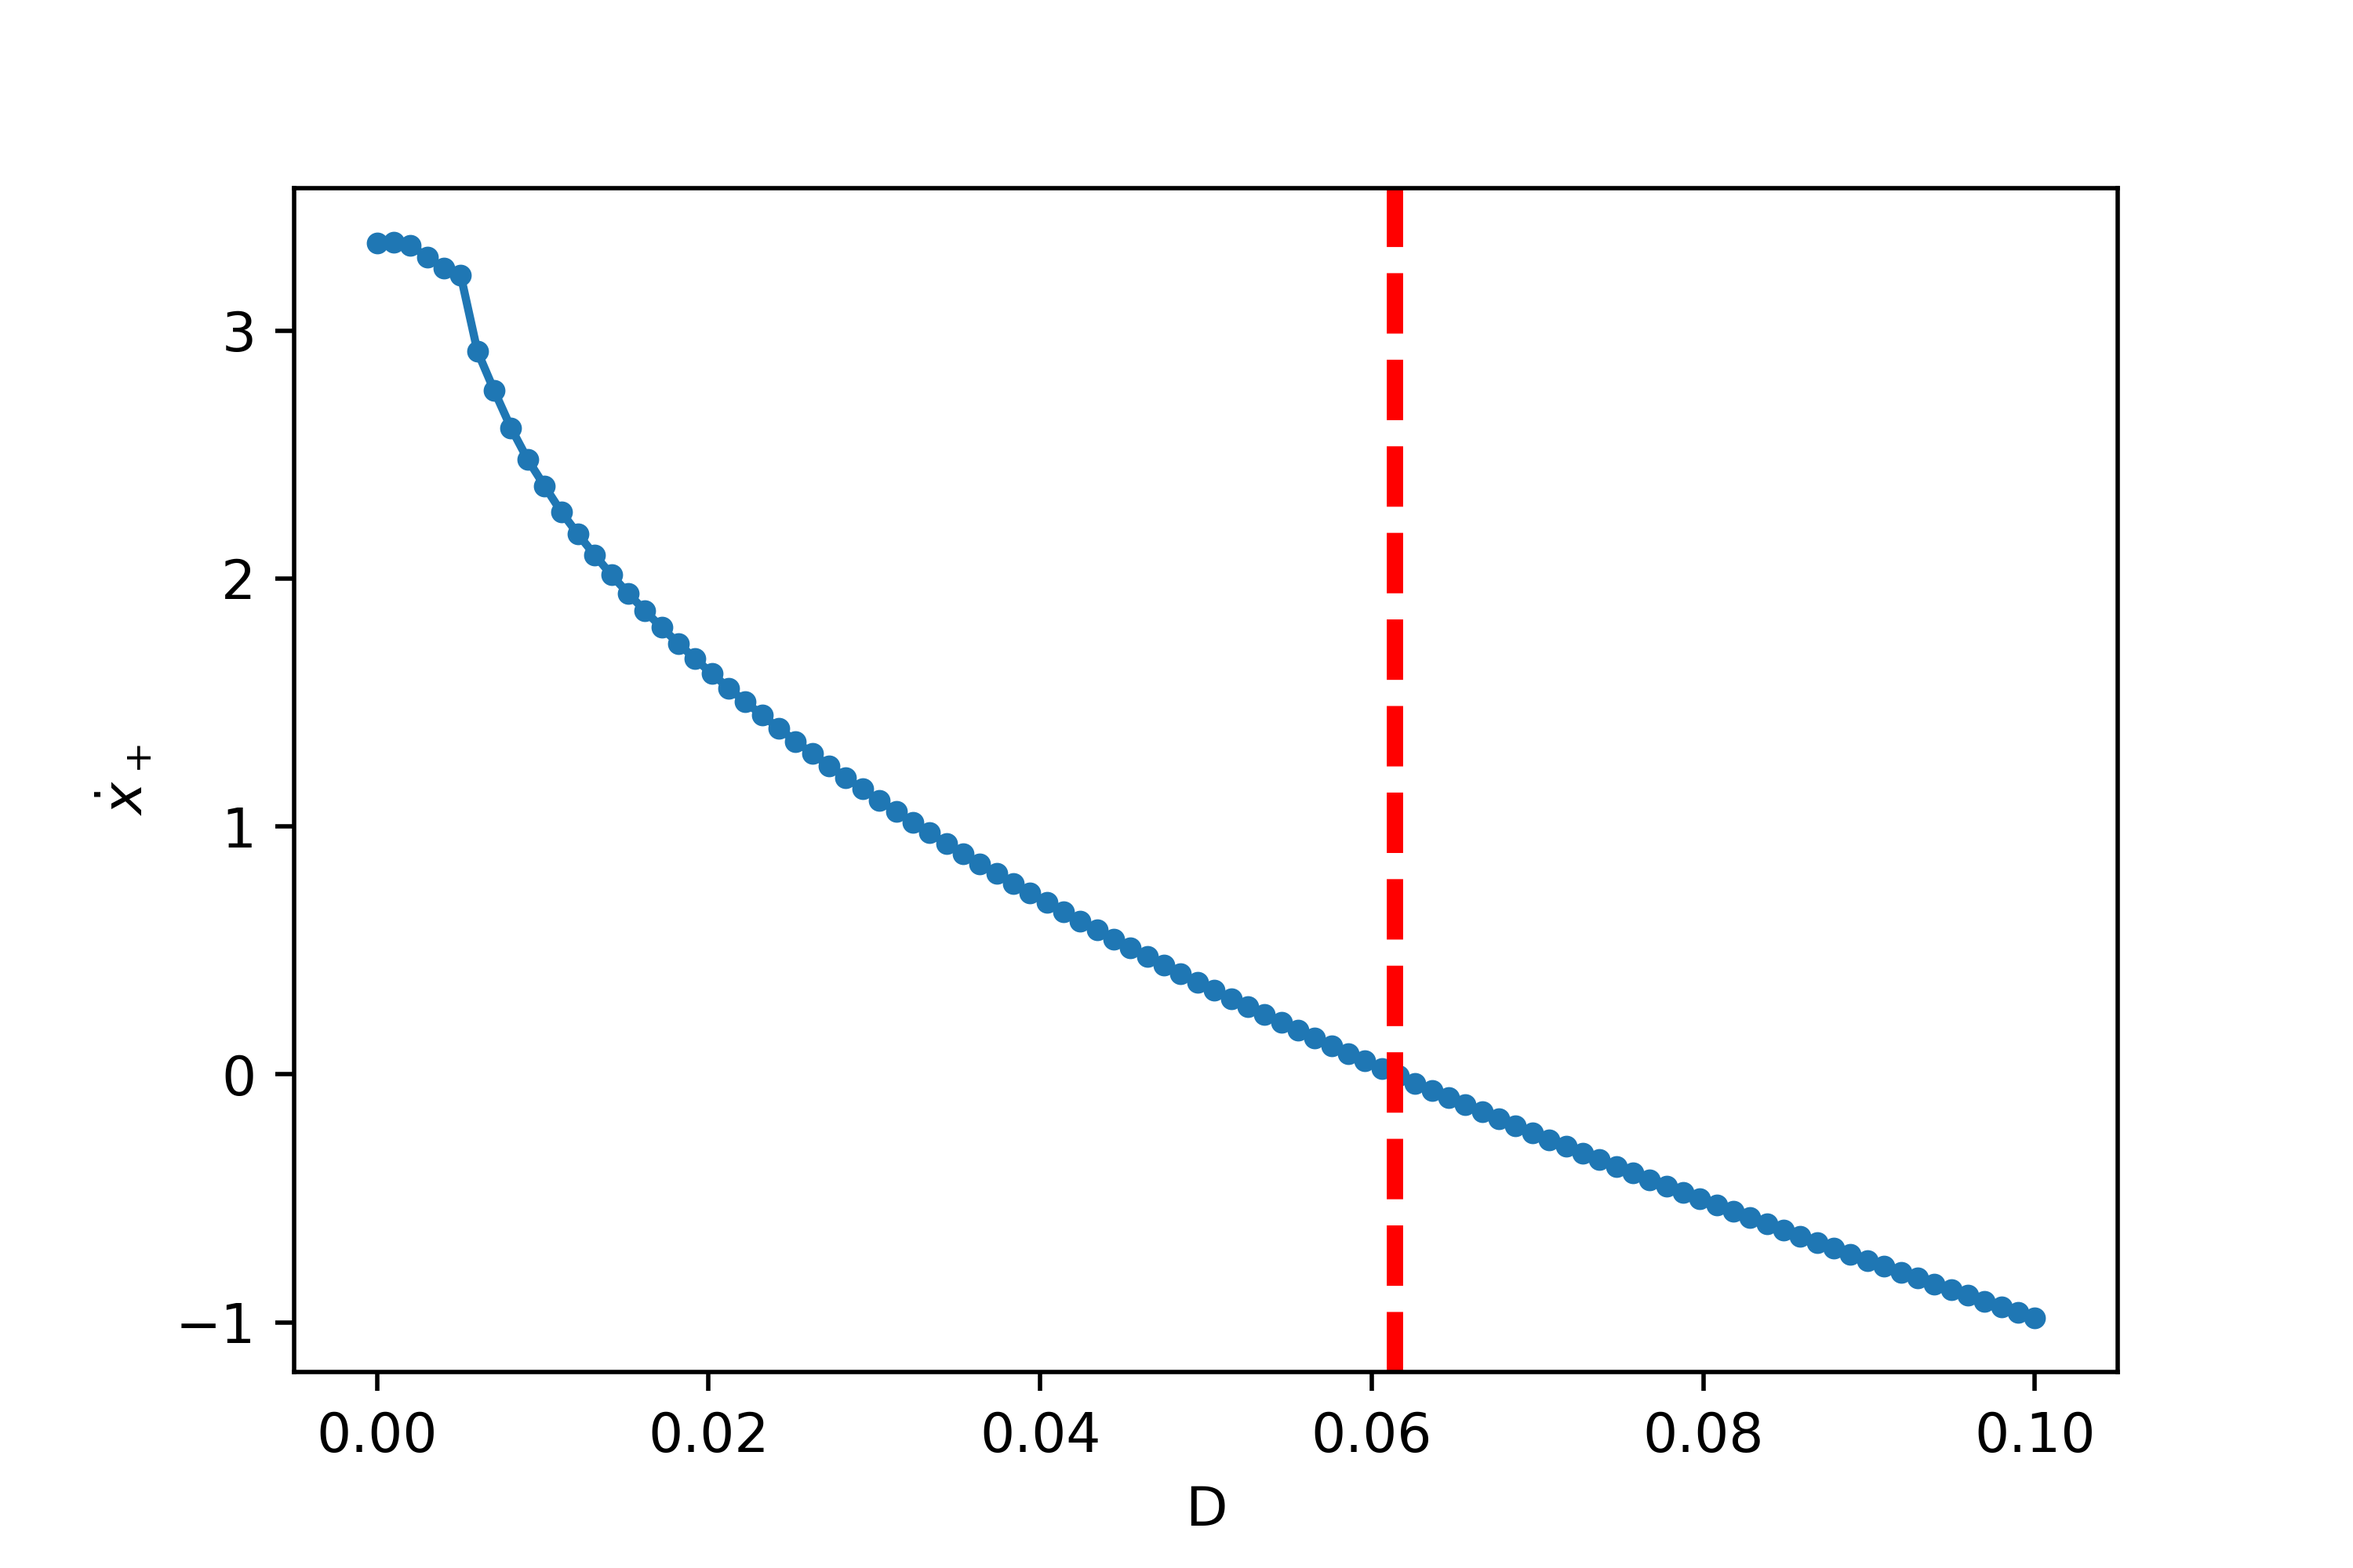
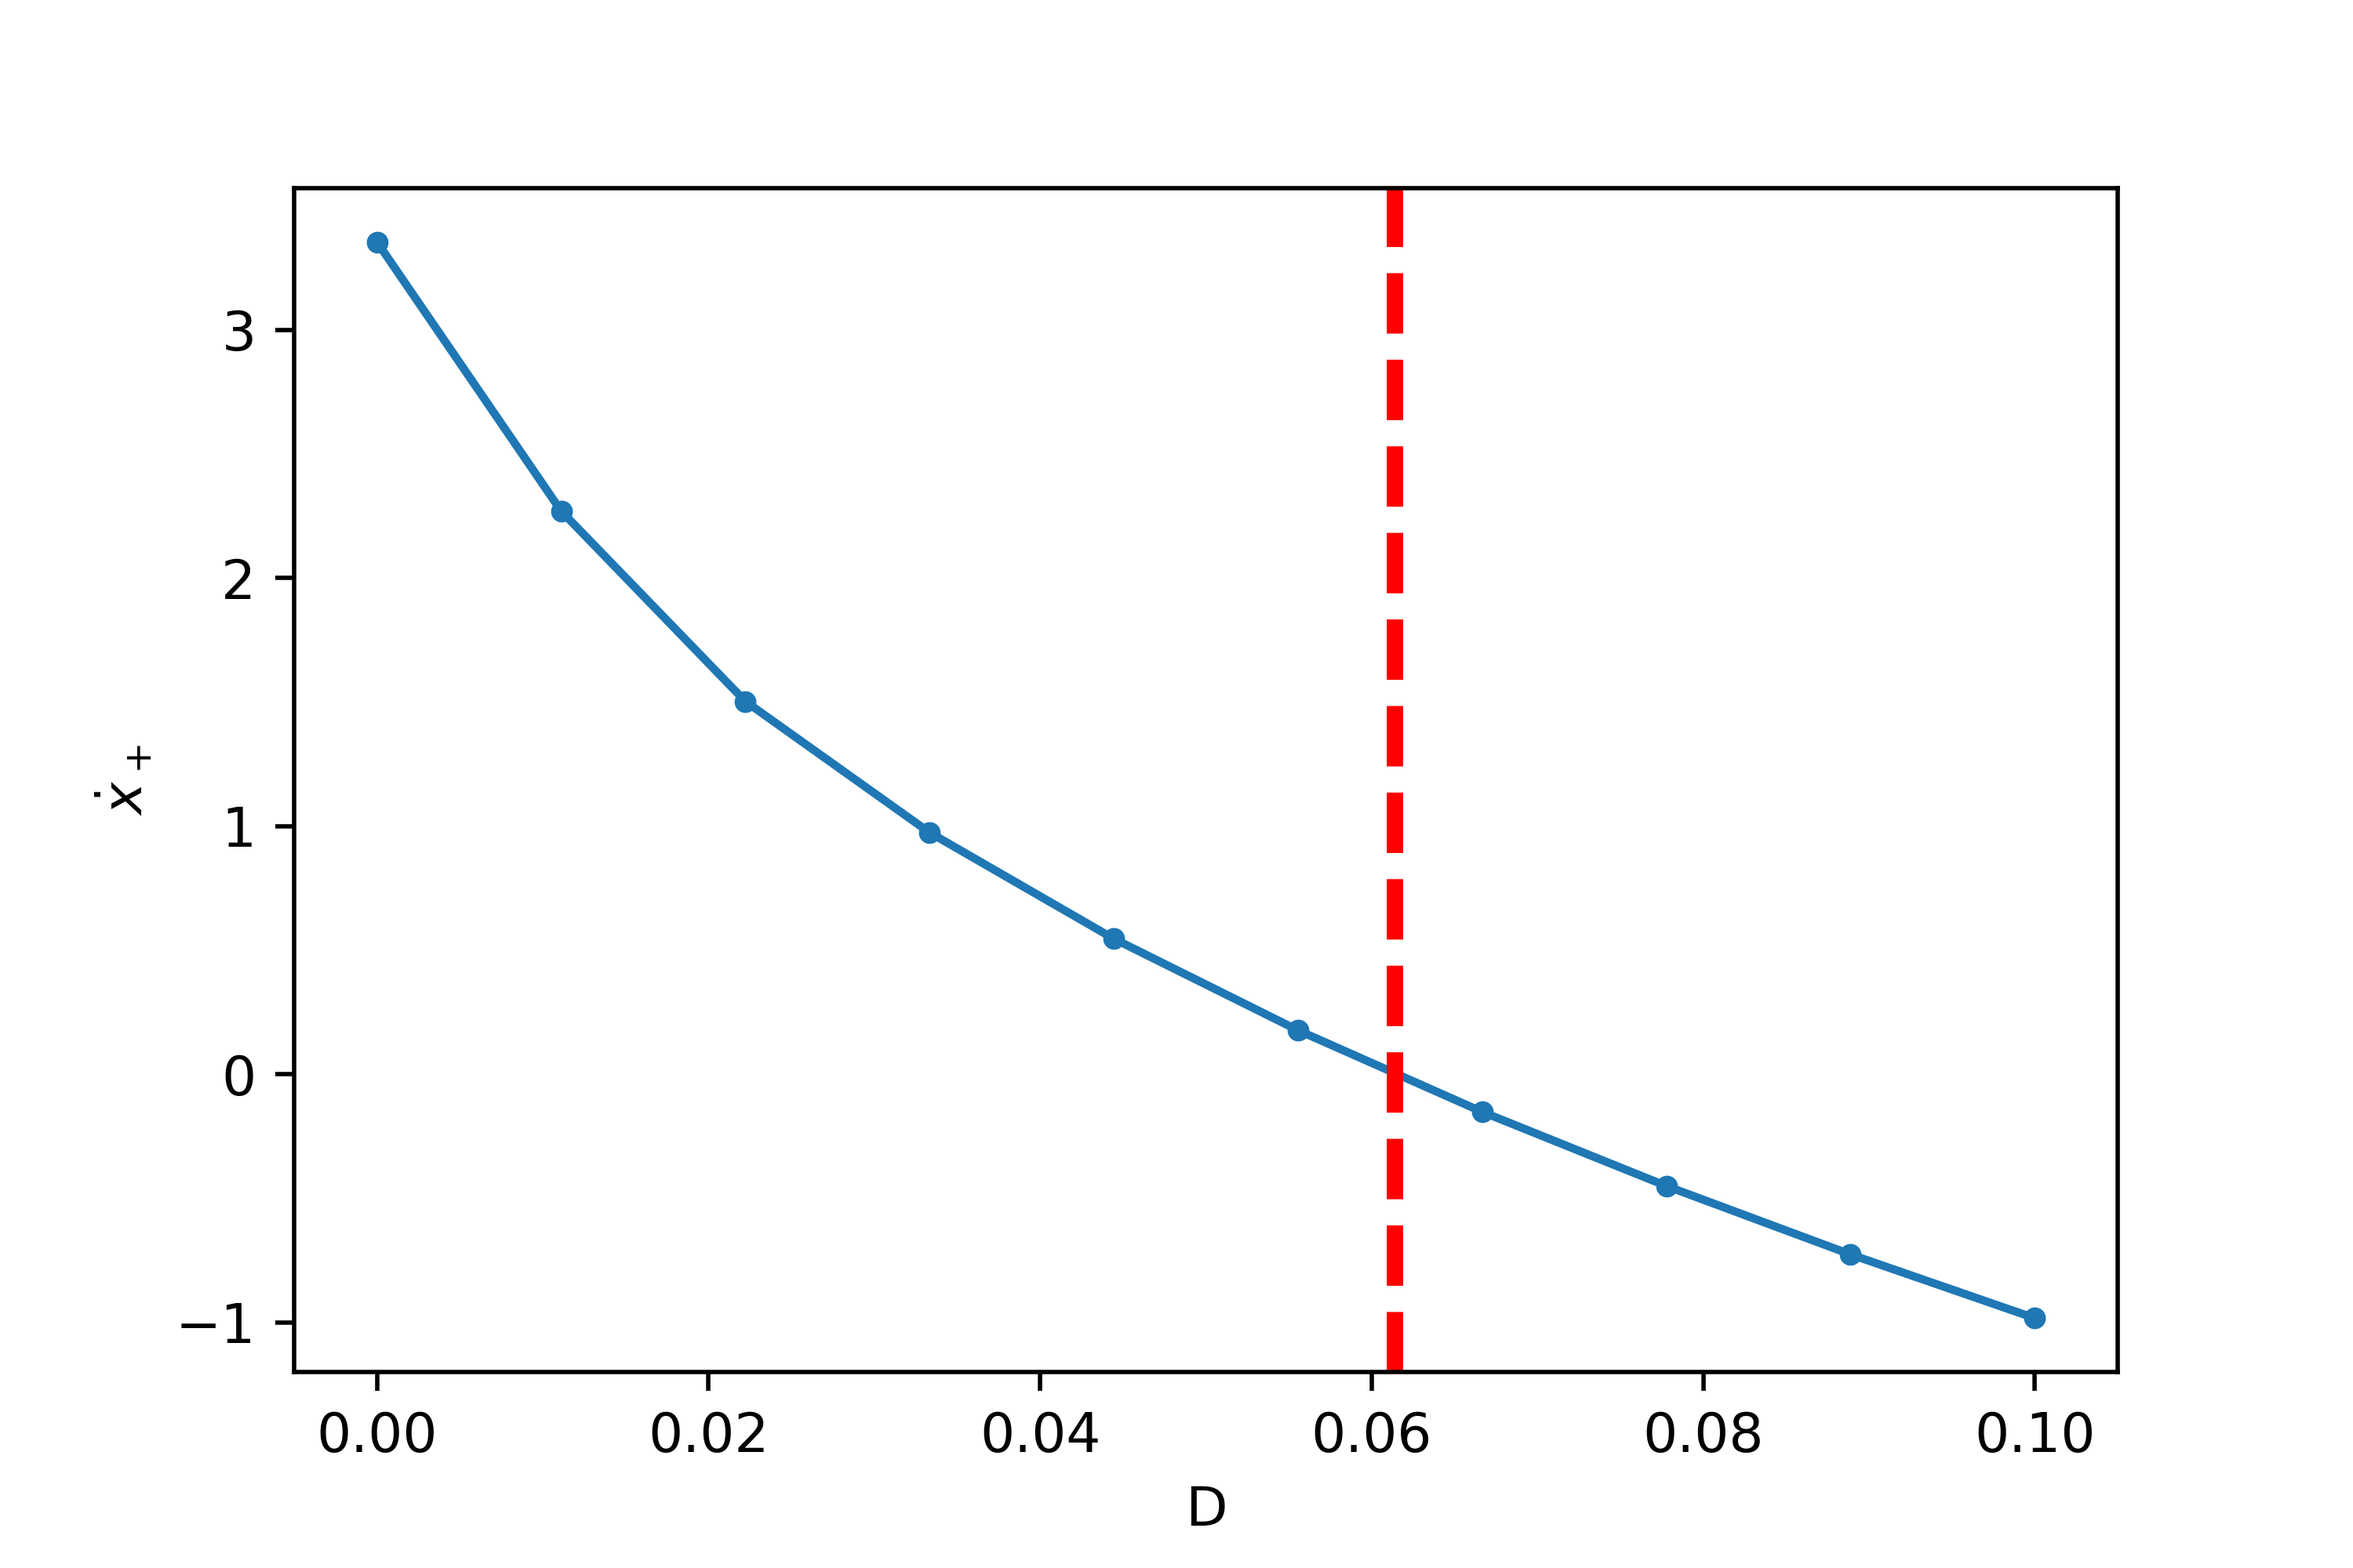
abv_trg

diff --git a/D_trg.py b/D_trg.py
@@ -9,6 +9,7 @@ startTime = datetime.now()
 
 nodes = 1000
 sigma = np.linspace(0,1,nodes)
+sigma2 = np.linspace(0,1/2,nodes)
 
 #parameters
 E = 15
@@ -94,7 +95,7 @@ global D
 
 l1, l2 = 1, 1.03
 
-Ds = np.linspace(0,0.1,100)
+Ds = np.linspace(0,0.1,10)
 mus_opt = np.zeros_like(Ds)
 lms_opt = np.zeros_like(Ds)
 x_plus_dot = np.zeros_like(Ds)
@@ -117,21 +118,6 @@ freduced = interpolate.UnivariateSpline(Ds, yreduced, s=0)
 D_trg = freduced.roots()[0]
 
 
-
-
-
-plt.plot(Ds,lms_opt,'o-')
-plt.xlabel("D")
-plt.ylabel(r"$\Lambda$")
-# plt.savefig("lambda.png",dpi=500)
-plt.show()
-
-plt.plot(Ds,mus_opt,'o-')
-plt.xlabel("D")
-plt.ylabel(r"$\mu$")
-# plt.savefig("mu.png",dpi=500)
-plt.show()
-
 plt.plot(Ds,x_plus_dot,'.-')
 plt.axvline(x=D_trg,linestyle='--',c='red',linewidth=3)
 plt.xlabel("D")
@@ -139,12 +125,143 @@ plt.ylabel(r"$\dot{x}_+$")
 plt.savefig("x_plus_dot.png",dpi=500)
 plt.show()
 
+            
+            
+def solve2(lamb):
+           
+    roots = np.roots([l0**2 * lamb/16/E**3, 1/24/lamb/E**2, -l0**2 *lamb/2/E,
+                      1/lamb])
+    psi_max = roots[-1]
+    
+    def func2(sigma2,y):
+        
+        psi = y[0]
+        dpsi = y[1]
+        I = y[2]
+        mu = y[3]
+        s_star = y[4]
+        
+        dpsi = dpsi
+        ddpsi = 4*mu*E*E*np.sin(psi)*(dpsi**2/8/E**2/(1-2*s_star)**2 - 1)\
+              *(1-2*s_star)**2/(1+mu*np.cos(psi))
+        dI = np.cos(psi)*(1+dpsi**2/8/E**2/(1-2*s_star)**2)*(1-2*s_star)
+        dmu = np.zeros_like(psi)
+        ds_star = np.zeros_like(psi)
+        
+        return np.vstack((dpsi,ddpsi,dI,dmu,ds_star))
+        
+    def bc2(ya,yb):
+        
+        psi0 = ya[0]
+        dpsi0 = ya[1]
+        I0 = ya[2]
+        s_star0 = ya[4]
+
+        dpsi1 = yb[1]
+        I1 = yb[2]
+        
+        return np.array([psi0-psi_max*s_star0, dpsi0 - psi_max, I0, dpsi1,
+        I1 - lamb*(1-D)/2 - (1+psi_max**2/8/E**2)*np.sin(psi_max*s_star0)/psi_max])
+
+    
+    eps = np.sqrt(1 - lamb*(1-D))
+    psi_init = eps*2/(1-np.pi**2/4/E**2)* np.sin(np.pi*sigma2)
+    dpsi_init = eps*2/(1-np.pi**2/4/E**2)* np.cos(np.pi*sigma2) * np.pi
+    
+    y_init = np.zeros((5,sigma2.size))
+    y_init[0] = psi_init
+    y_init[1] = dpsi_init
+    y_init[2] = np.cos(psi_init)*(1+dpsi_init**2/8/E**2)
+    y_init[3] = np.pi**2/4/E**2/(1-np.pi**2/4/E**2)*np.ones_like(sigma2)
+    y_init[4] = np.zeros_like(sigma2)
+    
+    sol = intg.solve_bvp(func2,bc2,sigma2,y_init)
+    psi = sol.y[0]
+    dpsi = sol.y[1]
+    I = sol.y[2]
+    mu = sol.y[3]
+    s_star = sol.y[4]
+    
+    return [dpsi, np.mean(mu), np.mean(s_star)]
 
 
 
+def L2(dpsi,lamb,s_star):
+    
+    roots = np.roots([l0**2 * lamb/16/E**3, 1/24/lamb/E**2, -l0**2 *lamb/2/E,
+                      1/lamb])
+    psi_max = roots[-1]
+    
+    return 2*s_star*(lamb+1/lamb+psi_max**2/8/lamb/E**2) + (1-2*s_star)* \
+    2*intg.quad(lag,s_star,1/2,args=(dpsi,lamb),limit=5000,epsrel=1e-10)[0]
+ 
+    
+def get_min2(a,b,tol,max_iter=1000):
+    
+    for _ in range(max_iter):
+
+        m = (a+b)/2
+        a1 = (m+a)/2
+        b1 = (m+b)/2
+        
+        a_dpsi , a_mu, a_star = solve2(a)
+        a1_dpsi , a1_mu, a1_star = solve2(a1)
+        m_dpsi , m_mu, m_star = solve2(m)
+        b1_dpsi , b1_mu, b1_star = solve2(b1)
+        b_dpsi , b_mu, b_star = solve2(b)
+        
+        Ls = np.array([L2(a_dpsi,a,a_star),L2(a1_dpsi,a1,a1_star),L2(m_dpsi,m,m_star),
+                       L2(b1_dpsi,b1,b1_star), L2(b_dpsi,b,b_star)])
+        idx = np.where(np.min(Ls)==Ls)[0][0] 
+        lm_min =  a + idx/4 * (b-a)
+        
+        if abs(b-a)<tol:
+            dpsi_min, mu_min, s_star_min = solve2(lm_min)
+            return [lm_min, mu_min, dpsi_min]
+        
+        if idx == 0:
+            b = a1
+        elif idx==1:
+            b = m
+        elif idx == 2:
+            a = a1
+            b = b1
+        elif idx == 3:
+            a = m
+        elif idx == 4:
+            a = b1
+    
+    dpsi_min, mu_min, s_star_min = solve2(lm_min)
+    return [lm_min, mu_min, dpsi_min]
 
 
 
+l1, l2 = 0.90, 1.03
+Ds2 = np.linspace(D_trg,0.1,10)
+mus_opt2 = np.zeros_like(Ds2)
+lms_opt2 = np.zeros_like(Ds2)
+
+i=0
+for D in Ds2:   
+    print(D)
+    lms_opt2[i], mus_opt2[i], dpsi_opt = get_min2(l1,l2,1e-8)
+    i += 1
+
+
+
+plt.plot(Ds,lms_opt,'o-')
+plt.plot(Ds2,lms_opt2,'o-')
+plt.xlabel("D")
+plt.ylabel(r"$\Lambda$")
+# plt.savefig("lambda.png",dpi=500)
+plt.show()
+
+plt.plot(Ds,mus_opt,'o-')
+plt.plot(Ds2,mus_opt2,'o-')
+plt.xlabel("D")
+plt.ylabel(r"$\mu$")
+# plt.savefig("mu.png",dpi=500)
+plt.show()
 
 
 print("Execution time:",datetime.now() - startTime)

diff --git a/abv_D_trg.py b/abv_D_trg.py
@@ -54,18 +54,88 @@ def solve2(lamb):
     mu = sol.y[3]
     s_star = sol.y[4]
     
-    return [dpsi, np.mean(mu), s_star]
+    return [dpsi, np.mean(mu), np.mean(s_star)]
 
 
+def lag(sig,dpsi,lamb,s_star):
+    return lamb + 1/lamb + dpsi[int(sig*nodes)]**2/8/lamb/E**2
+
+def L(dpsi,lamb,s_star):
+    
+    roots = np.roots([l0**2 * lamb/16/E**3, 1/24/lamb/E**2, -l0**2 *lamb/2/E,
+                      1/lamb])
+    psi_max = roots[-1]
+    
+    return (1-2*s_star)*(2*s_star*(lamb+1/lamb+psi_max**2/8/lamb/E**2) + \
+    2*intg.quad(lag,s_star,1/2,args=(dpsi,lamb,s_star),limit=5000,epsrel=1e-10)[0])
+ 
+    
+def get_min2(a,b,tol,max_iter=1000):
+    
+    for _ in range(max_iter):
+
+        m = (a+b)/2
+        a1 = (m+a)/2
+        b1 = (m+b)/2
+        
+        a_dpsi , a_mu, a_star = solve2(a)
+        a1_dpsi , a1_mu, a1_star = solve2(a1)
+        m_dpsi , m_mu, m_star = solve2(m)
+        b1_dpsi , b1_mu, b1_star = solve2(b1)
+        b_dpsi , b_mu, b_star = solve2(b)
+        
+        Ls = np.array([L(a_dpsi,a,a_star),L(a1_dpsi,a1,a1_star),L(m_dpsi,m,m_star),
+                       L(b1_dpsi,b1,b1_star), L(b_dpsi,b,b_star)])
+        idx = np.where(np.min(Ls)==Ls)[0][0] 
+        lm_min =  a + idx/4 * (b-a)
+        
+        if abs(b-a)<tol:
+            dpsi_min, mu_min, s_star_min = solve2(lm_min)
+            return [lm_min, mu_min, dpsi_min]
+        
+        if idx == 0:
+            b = a1
+        elif idx==1:
+            b = m
+        elif idx == 2:
+            a = a1
+            b = b1
+        elif idx == 3:
+            a = m
+        elif idx == 4:
+            a = b1
+    
+    dpsi_min, mu_min, s_star_min = solve2(lm_min)
+    return [lm_min, mu_min, dpsi_min]
 
 global D
-D = 0.08
+D = 0.06
 l1, l2 = 1, 1.03
 Ds2 = np.linspace(D_trg,0.1,100)
+mus_opt2 = np.zeros_like(Ds2)
+lms_opt2 = np.zeros_like(Ds2)
+x_plus_dot2 = np.zeros_like(Ds2)
 
 dpsi,mu,s_star = solve2(1.006)
-print(dpsi,mu)
-plt.plot(sigma2,s_star)
+
+i=0
+for D in Ds2:   
+    print(D)
+    lms_opt2[i], mus_opt2[i], dpsi_opt = get_min2(l1,l2,1e-8)
+    i += 1
+
+
+plt.plot(Ds2,lms_opt2,'o-')
+plt.xlabel("D")
+plt.ylabel("lambda")
+# plt.savefig("lambda.png",dpi=500)
+plt.show()
+
+plt.plot(Ds2,mus_opt2,'o-')
+plt.xlabel("D")
+plt.ylabel("mu")
+# plt.savefig("mu.png",dpi=500)
+plt.show()
 
 # i=0
 # for D in Ds2:  

diff --git a/variable_D.py b/variable_D.py
@@ -111,3 +111,9 @@ plt.xlabel("D")
 plt.ylabel("mu")
 plt.savefig("mu.png",dpi=500)
 plt.show()
+
+
+
+
+
+ 
